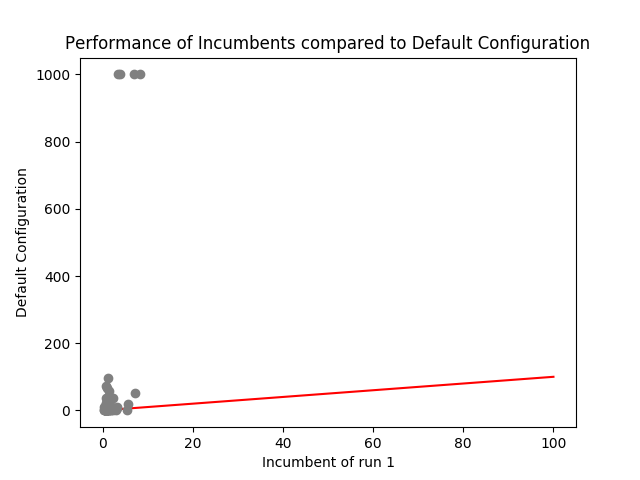
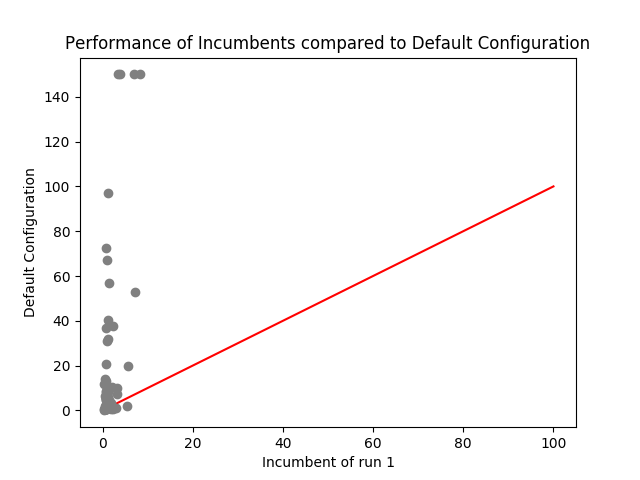
Added plot

diff --git a/Exercise2/lpg_depots/validate/plot_validation_1.py b/Exercise2/lpg_depots/validate/plot_validation_1.py
@@ -24,6 +24,8 @@ def main():
         config_id = entry.config_id  # look up config id
         config = runhistory.ids_config[config_id]  # look up config
         z_ = values.cost  # get cost
+        if z_ > 100:
+            z_ = 150
         if config_id == 1:
             cost_default.append(z_)
         else:
